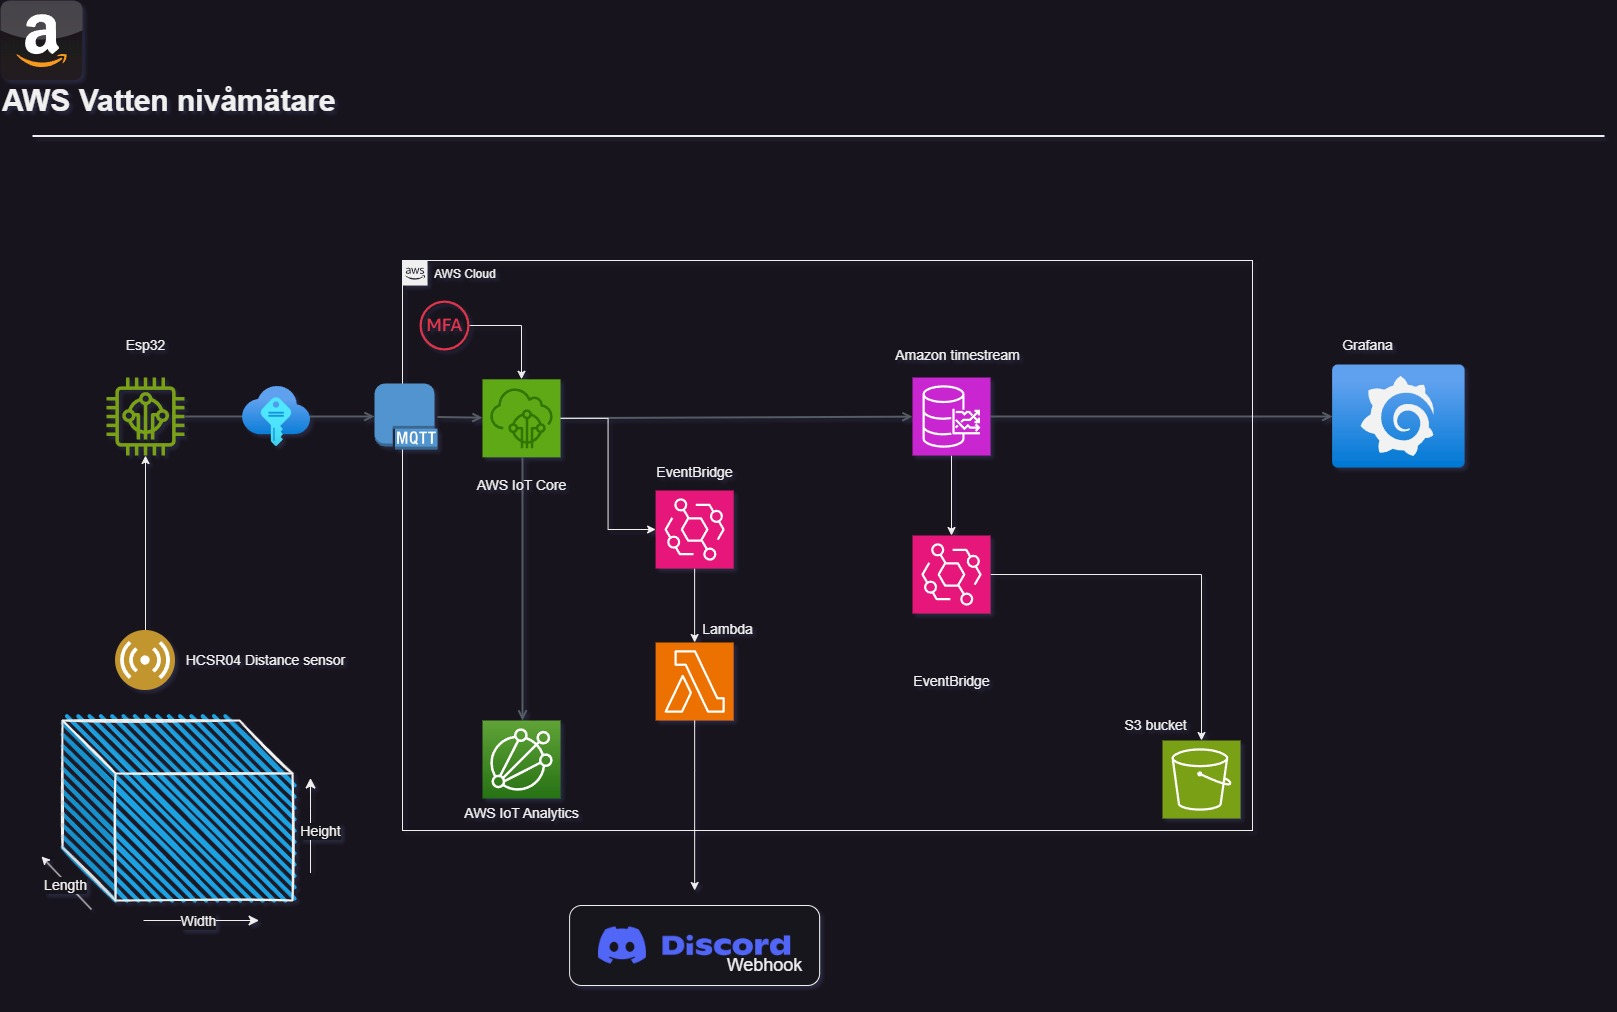
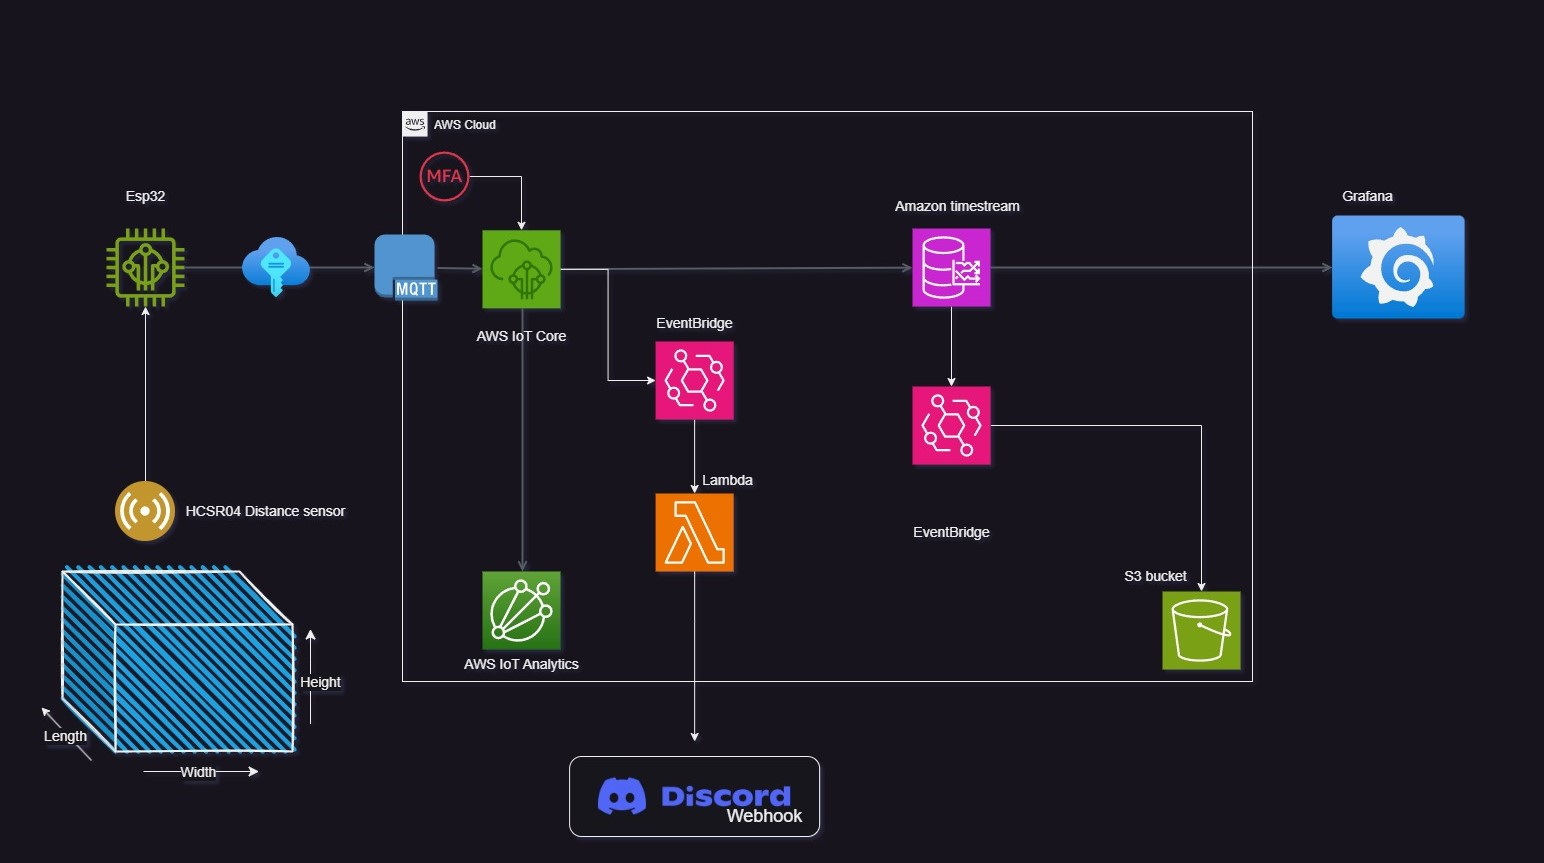
Updated Readme(added image), and cropped the image a bit

diff --git a/README.md b/README.md
@@ -1,8 +1,9 @@
 # IoT Volume Measurement System
 
 ## Overview
-This project develops an IoT-based volume measurement system using ESP32, HC-SR04 ultrasonic sensor, and AWS IoT. It calculates and transmits the volume data of cuboid or cylinder containers based on the distance measured by the HC-SR04 sensor.
-
+This project develops an IoT-based volume measurement system specifically for cuboid containers using ESP32, HC-SR04 ultrasonic sensor, and AWS IoT. It calculates and transmits the volume data of cuboid containers based on the distance measured by the HC-SR04 sensor.
+## Cloud Setup Overview
+![AWS Cloud Setup](documentation/images/Aws-cloud-map.jpg)
 ## Hardware Requirements
 - ESP32 Development Board
 - HC-SR04 Ultrasonic Sensor
@@ -31,8 +32,4 @@ Open the code in Arduino IDE, select ESP32 as the board, and choose the correct 
 Compile and upload the code to the ESP32 board.
 
 ## Operation
-The system operates in two modes:
-- **Cuboid Mode:** For cuboid container volume calculation.
-- **Cylinder Mode:** For cylindrical container volume calculation.
-
-The device measures the distance to the liquid surface and calculates the volume.
+The device measures the distance to the liquid surface in a cuboid container and calculates the volume based on these measurements.
